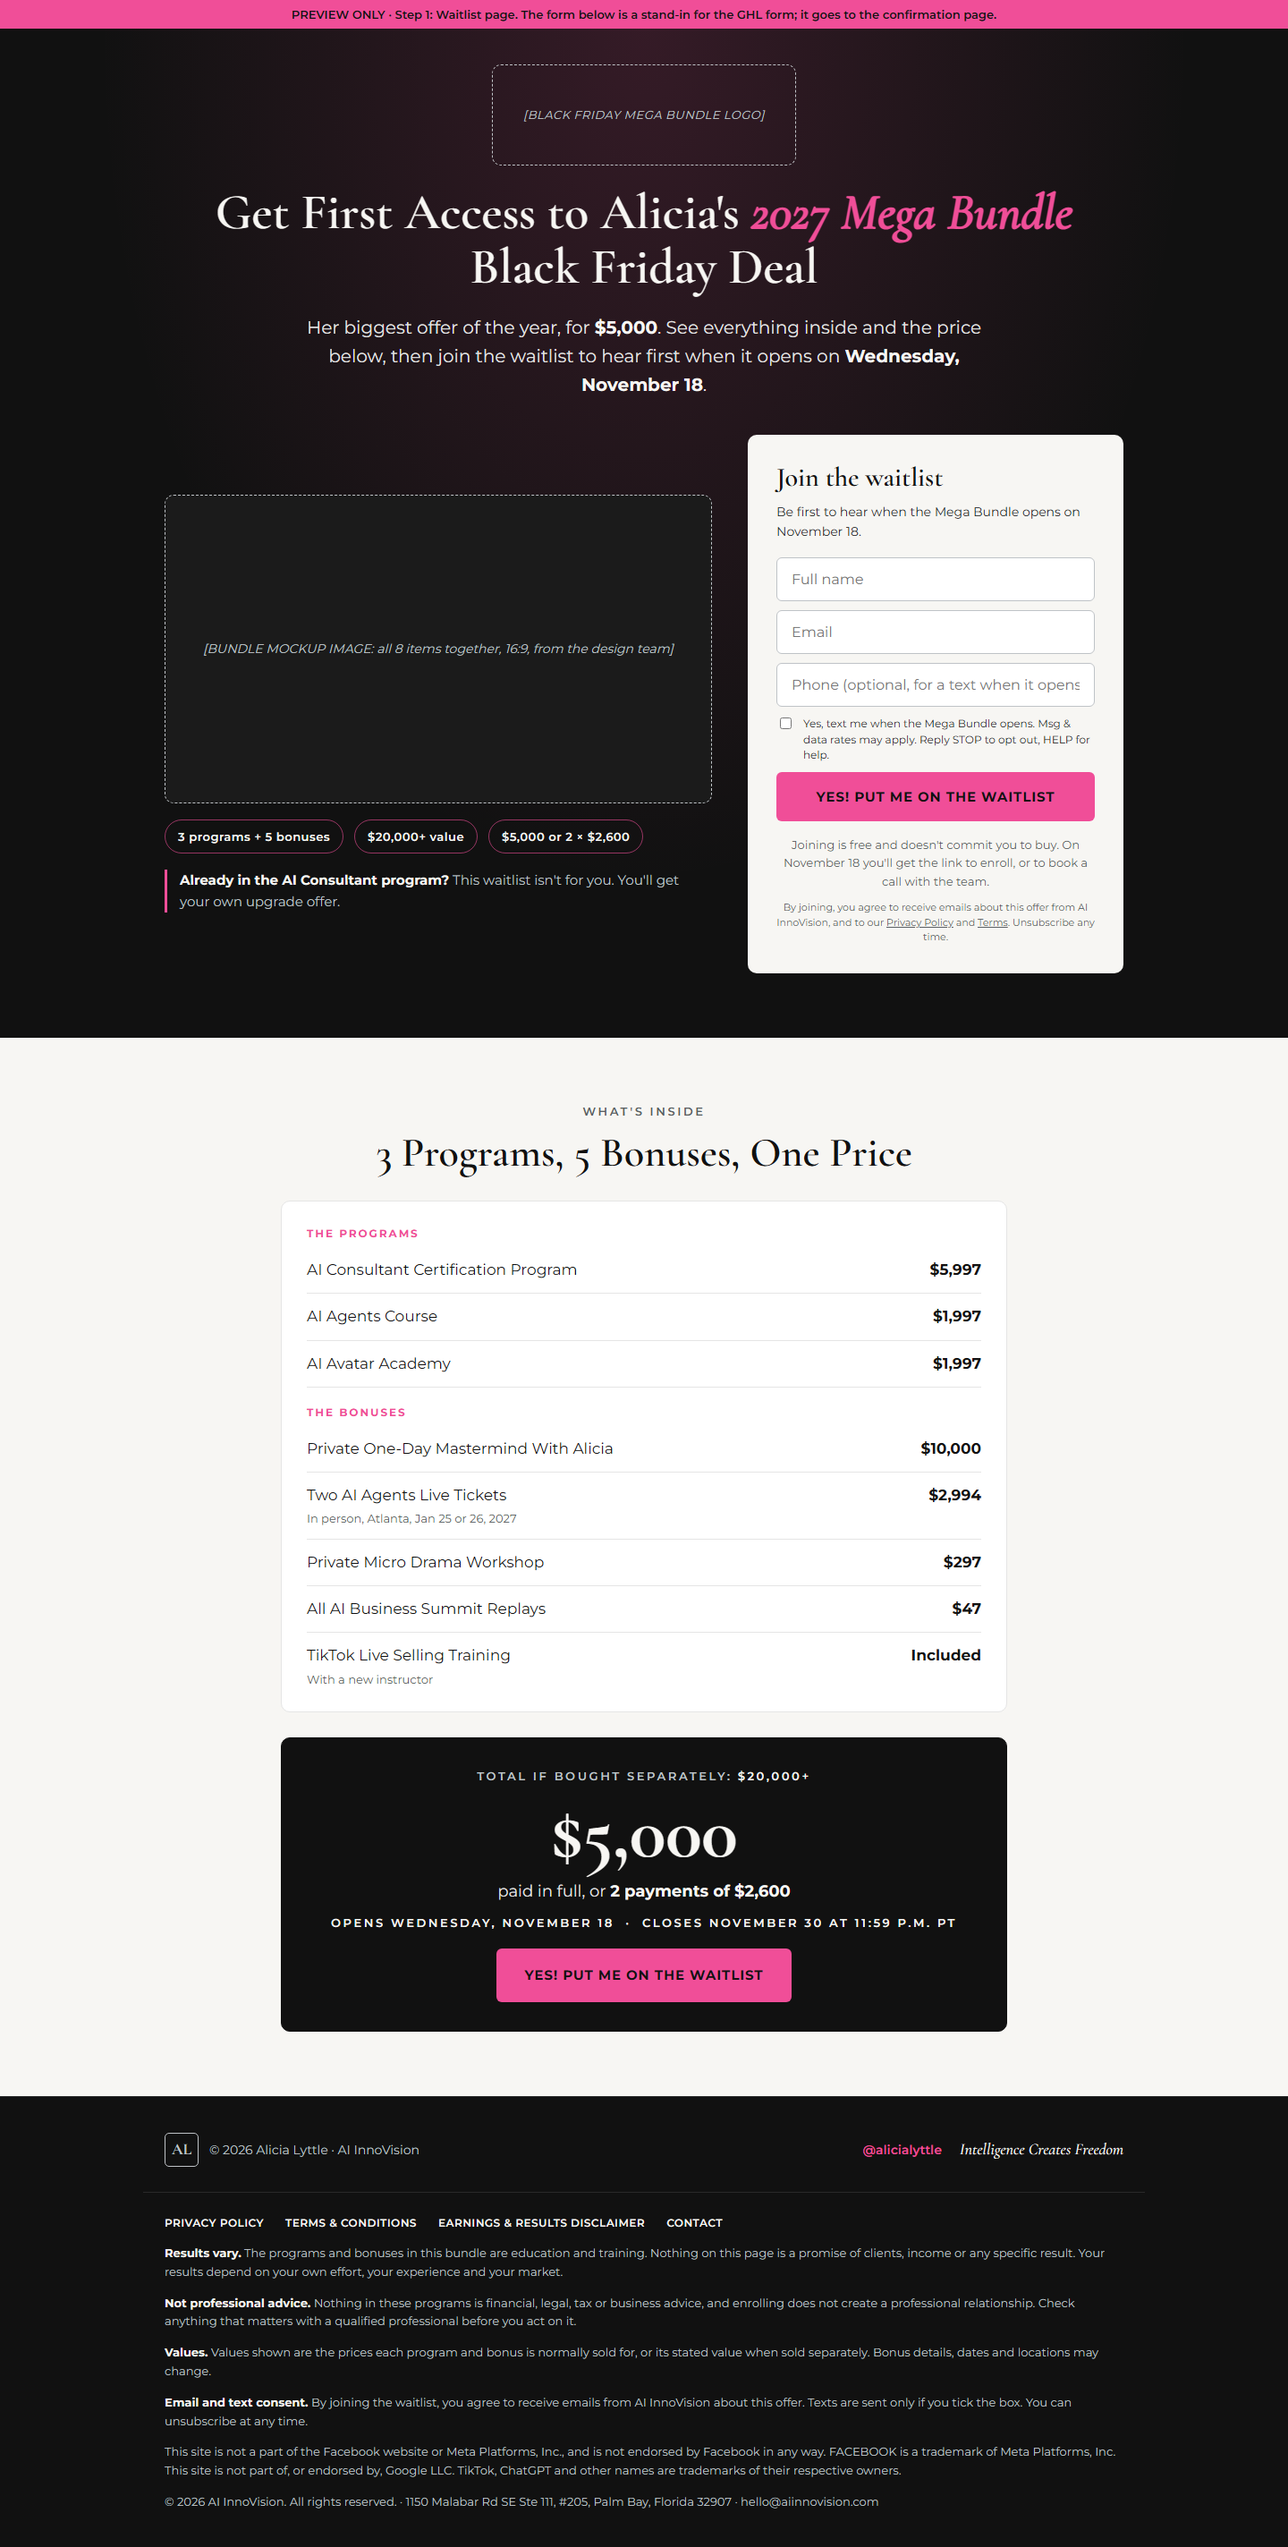
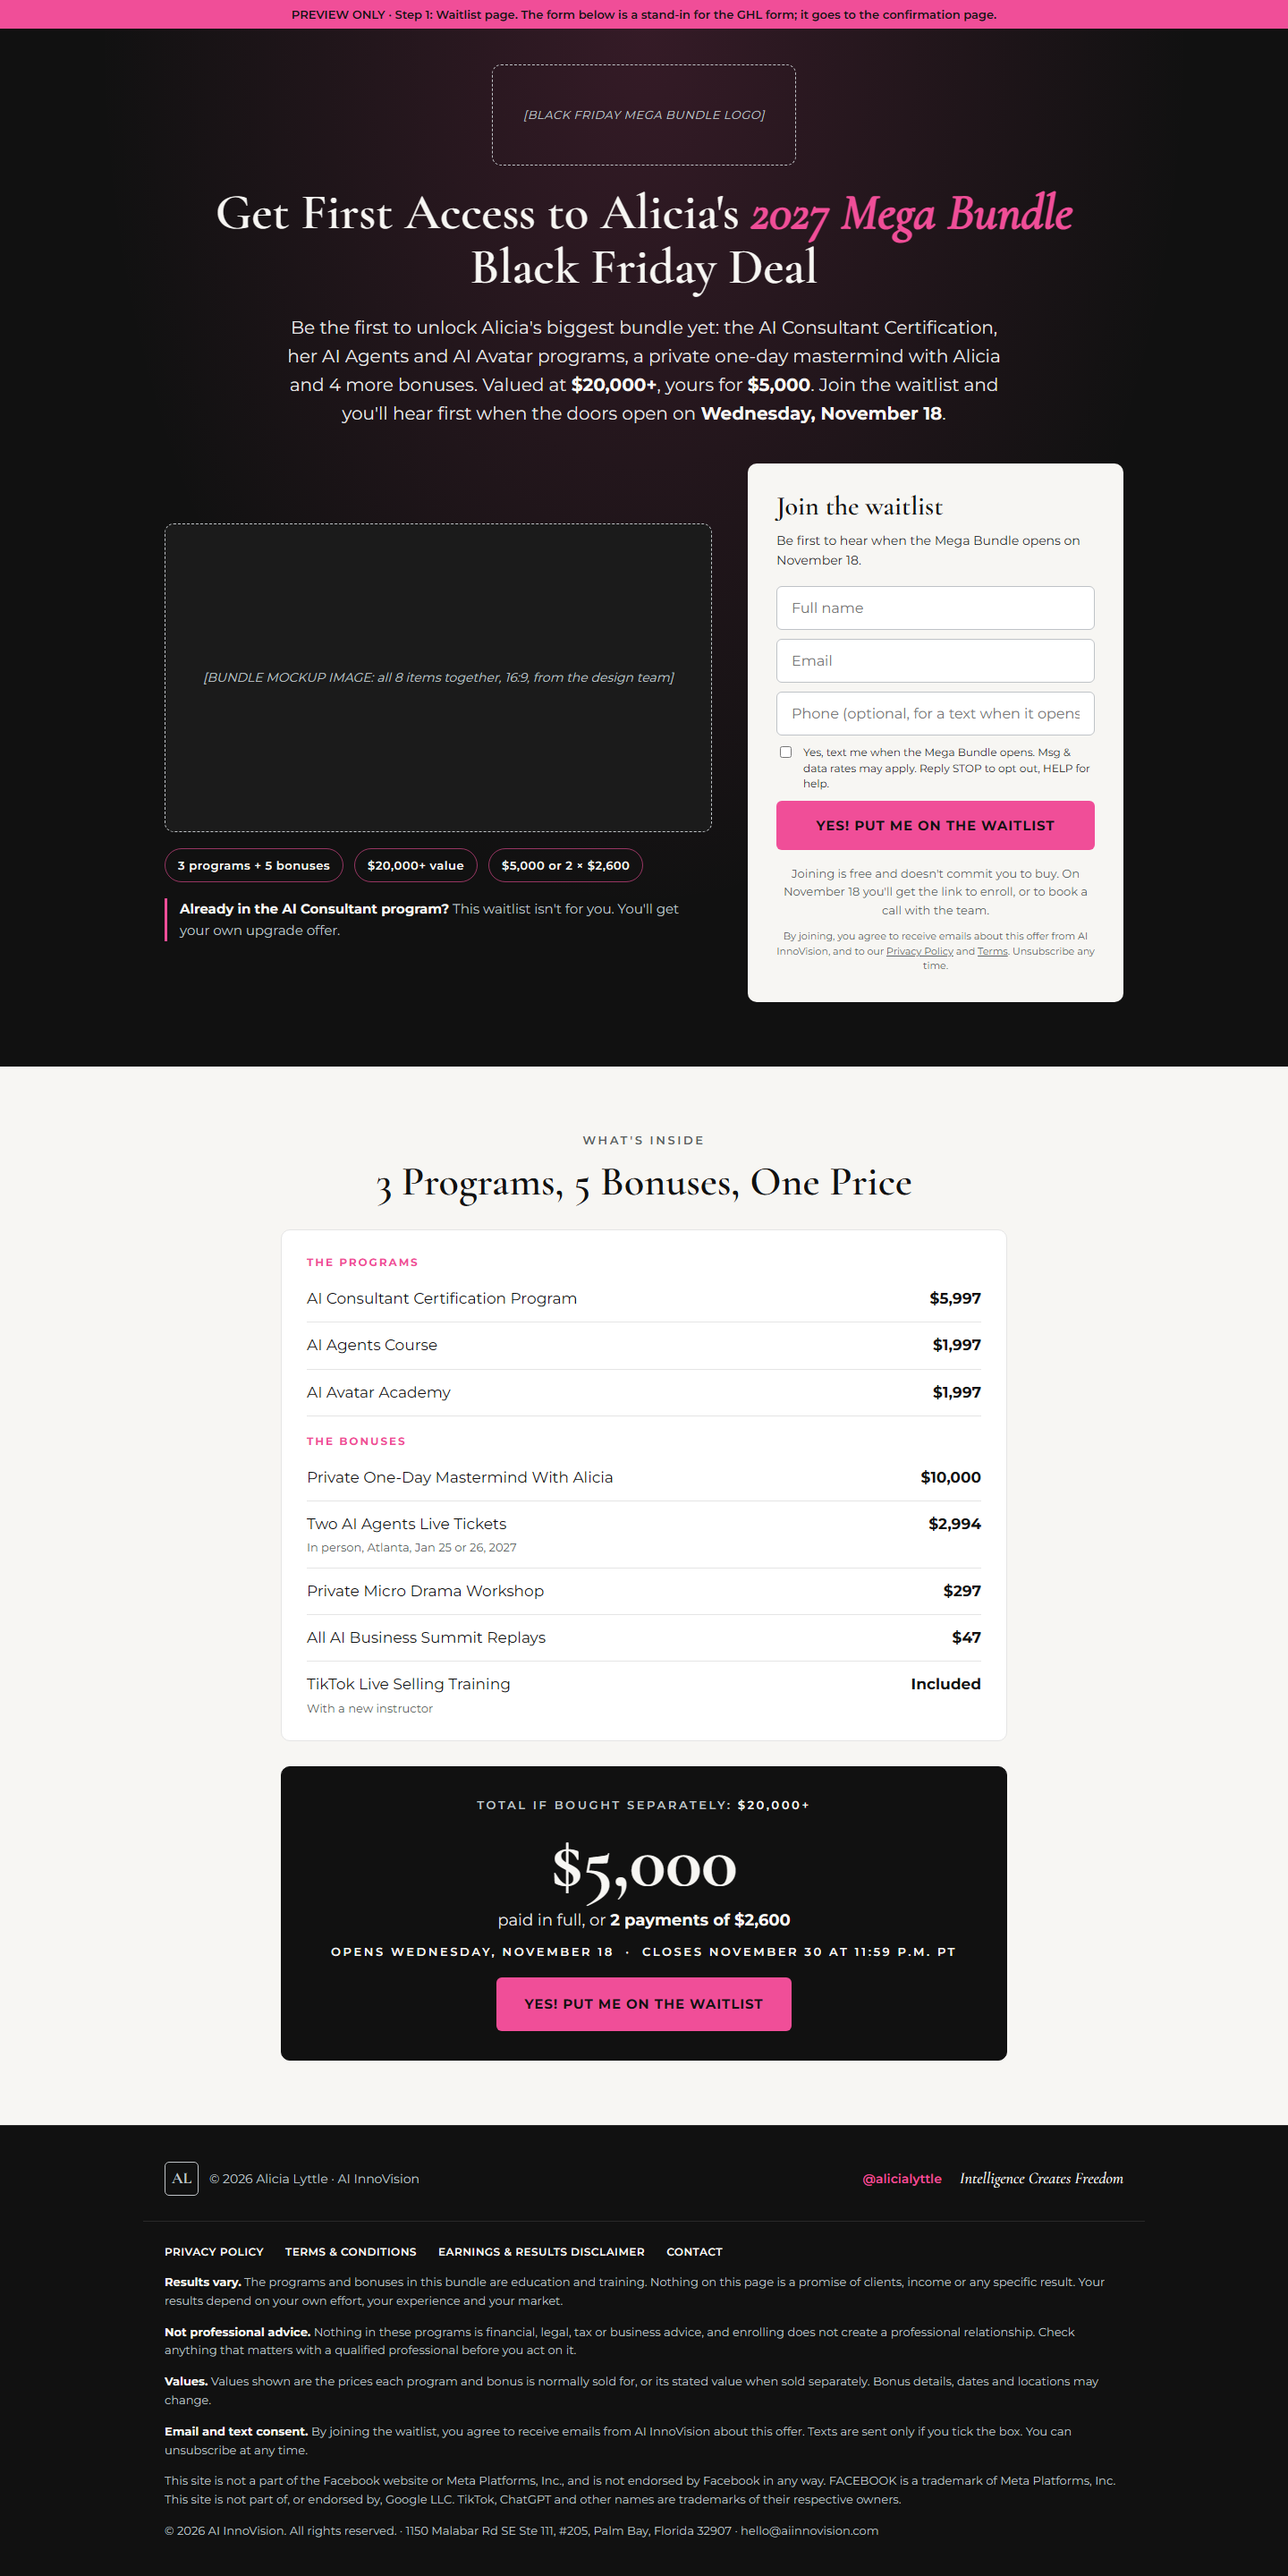
Waitlist subheadline: be the first to unlock (no year)

diff --git a/funnels/mega-bundle-waitlist-nov-2026/design/waitlist.html b/funnels/mega-bundle-waitlist-nov-2026/design/waitlist.html
@@ -123,7 +123,7 @@ details summary::-webkit-details-marker{display:none}
 <span>[BLACK FRIDAY MEGA BUNDLE LOGO]</span>
 </div>
 <h1 style="font-size: 56px; color: #F7F6F3; max-width: 980px">Get First Access to Alicia's <em style="font-style: italic; color: #F04E98">2027 Mega Bundle</em> Black Friday Deal</h1>
-<p class="body" style="font-size: 20px; max-width: 760px">Her biggest offer of the year, for <strong style="color: #F7F6F3">$5,000</strong>. See everything inside and the price below, then join the waitlist to hear first when it opens on <strong style="color: #F7F6F3">Wednesday, November 18</strong>.</p>
+<p class="body" style="font-size: 20px; max-width: 820px">Be the first to unlock Alicia's biggest bundle yet: the AI Consultant Certification, her AI Agents and AI Avatar programs, a private one-day mastermind with Alicia and 4 more bonuses. Valued at <strong style="color: #F7F6F3">$20,000+</strong>, yours for <strong style="color: #F7F6F3">$5,000</strong>. Join the waitlist and you'll hear first when the doors open on <strong style="color: #F7F6F3">Wednesday, November 18</strong>.</p>
 </div>
 <div style="display: flex; flex-wrap: wrap; gap: 40px; align-items: center">
 <div style="flex: 1 1 520px; min-width: 0; display: flex; flex-direction: column; gap: 18px">

diff --git a/funnels/mega-bundle-waitlist-nov-2026/preview/1-waitlist.html b/funnels/mega-bundle-waitlist-nov-2026/preview/1-waitlist.html
@@ -123,7 +123,7 @@ details summary::-webkit-details-marker{display:none}
 <span>[BLACK FRIDAY MEGA BUNDLE LOGO]</span>
 </div>
 <h1 style="font-size: 56px; color: #F7F6F3; max-width: 980px">Get First Access to Alicia's <em style="font-style: italic; color: #F04E98">2027 Mega Bundle</em> Black Friday Deal</h1>
-<p class="body" style="font-size: 20px; max-width: 760px">Her biggest offer of the year, for <strong style="color: #F7F6F3">$5,000</strong>. See everything inside and the price below, then join the waitlist to hear first when it opens on <strong style="color: #F7F6F3">Wednesday, November 18</strong>.</p>
+<p class="body" style="font-size: 20px; max-width: 820px">Be the first to unlock Alicia's biggest bundle yet: the AI Consultant Certification, her AI Agents and AI Avatar programs, a private one-day mastermind with Alicia and 4 more bonuses. Valued at <strong style="color: #F7F6F3">$20,000+</strong>, yours for <strong style="color: #F7F6F3">$5,000</strong>. Join the waitlist and you'll hear first when the doors open on <strong style="color: #F7F6F3">Wednesday, November 18</strong>.</p>
 </div>
 <div style="display: flex; flex-wrap: wrap; gap: 40px; align-items: center">
 <div style="flex: 1 1 520px; min-width: 0; display: flex; flex-direction: column; gap: 18px">

diff --git a/funnels/mega-bundle-waitlist-nov-2026/ghl/waitlist.ghl.html b/funnels/mega-bundle-waitlist-nov-2026/ghl/waitlist.ghl.html
@@ -191,7 +191,7 @@ body { background: #111111; }
 <span>[BLACK FRIDAY MEGA BUNDLE LOGO]</span>
 </div>
 <h1 style="font-size: 56px; color: #F7F6F3; max-width: 980px">Get First Access to Alicia's <em style="font-style: italic; color: #F04E98">2027 Mega Bundle</em> Black Friday Deal</h1>
-<p class="body" style="font-size: 20px; max-width: 760px">Her biggest offer of the year, for <strong style="color: #F7F6F3">$5,000</strong>. See everything inside and the price below, then join the waitlist to hear first when it opens on <strong style="color: #F7F6F3">Wednesday, November 18</strong>.</p>
+<p class="body" style="font-size: 20px; max-width: 820px">Be the first to unlock Alicia's biggest bundle yet: the AI Consultant Certification, her AI Agents and AI Avatar programs, a private one-day mastermind with Alicia and 4 more bonuses. Valued at <strong style="color: #F7F6F3">$20,000+</strong>, yours for <strong style="color: #F7F6F3">$5,000</strong>. Join the waitlist and you'll hear first when the doors open on <strong style="color: #F7F6F3">Wednesday, November 18</strong>.</p>
 </div>
 <div style="display: flex; flex-wrap: wrap; gap: 40px; align-items: center">
 <div style="flex: 1 1 520px; min-width: 0; display: flex; flex-direction: column; gap: 18px">

diff --git a/funnels/mega-bundle-waitlist-nov-2026/copy/waitlist-page.md b/funnels/mega-bundle-waitlist-nov-2026/copy/waitlist-page.md
@@ -3,7 +3,7 @@
 Status: DRAFT for review (2026-11-05). Written by us from Michael's team brief + Loom. Design: match the AI Life Summit pages (black #111111, pink #F04E98, off-white #F7F6F3, Cormorant Garamond headlines, Montserrat body, same nav and footer).
 Rules applied: price and contents shown up front (Nehemiah), verified prices only, no income promises, one deadline format. Anything not verified is in [BRACKETS].
 
-> **2026-11-05: SHORT VERSION APPROVED.** After comparing with last year's one-screen waitlist (`reference/model-funnels/black-friday-waitlist-2025/`), the page was cut to: Nav · Hero + form (with the consultant line and "On November 18 you'll get the link to enroll, or to book a call" under the form) · What's inside as a one-line-per-item list + price box · Footer. **Later the same day:** nav bar removed; a logo slot sits at the top; hero = headline "Get First Access to Alicia's 2027 Mega Bundle Black Friday Deal" (chosen by the user, modelled on last year's; "2027 Mega Bundle" in pink italic) + subheadline "Her biggest offer of the year, for $5,000. See everything inside and the price below, then join the waitlist to hear first when it opens on Wednesday, November 18.", then the bundle mockup slot + chips + consultant line beside the form. Sections 5 to 9 below (What happens next, For you, Meet Alicia, FAQ, Final CTA) are **no longer on the page**; item descriptions are dropped. Kept below for reference only. The built page is `design/waitlist.html`.
+> **2026-11-05: SHORT VERSION APPROVED.** After comparing with last year's one-screen waitlist (`reference/model-funnels/black-friday-waitlist-2025/`), the page was cut to: Nav · Hero + form (with the consultant line and "On November 18 you'll get the link to enroll, or to book a call" under the form) · What's inside as a one-line-per-item list + price box · Footer. **Later the same day:** nav bar removed; a logo slot sits at the top; hero = headline "Get First Access to Alicia's 2027 Mega Bundle Black Friday Deal" (chosen by the user, modelled on last year's; "2027 Mega Bundle" in pink italic) + subheadline "Be the first to unlock Alicia's biggest bundle yet: the AI Consultant Certification, her AI Agents and AI Avatar programs, a private one-day mastermind with Alicia and 4 more bonuses. Valued at $20,000+, yours for $5,000. Join the waitlist and you'll hear first when the doors open on Wednesday, November 18." (no year in the subheadline, so it doesn't clash with "2027"), then the bundle mockup slot + chips + consultant line beside the form. Sections 5 to 9 below (What happens next, For you, Meet Alicia, FAQ, Final CTA) are **no longer on the page**; item descriptions are dropped. Kept below for reference only. The built page is `design/waitlist.html`.
 
 ---
 
